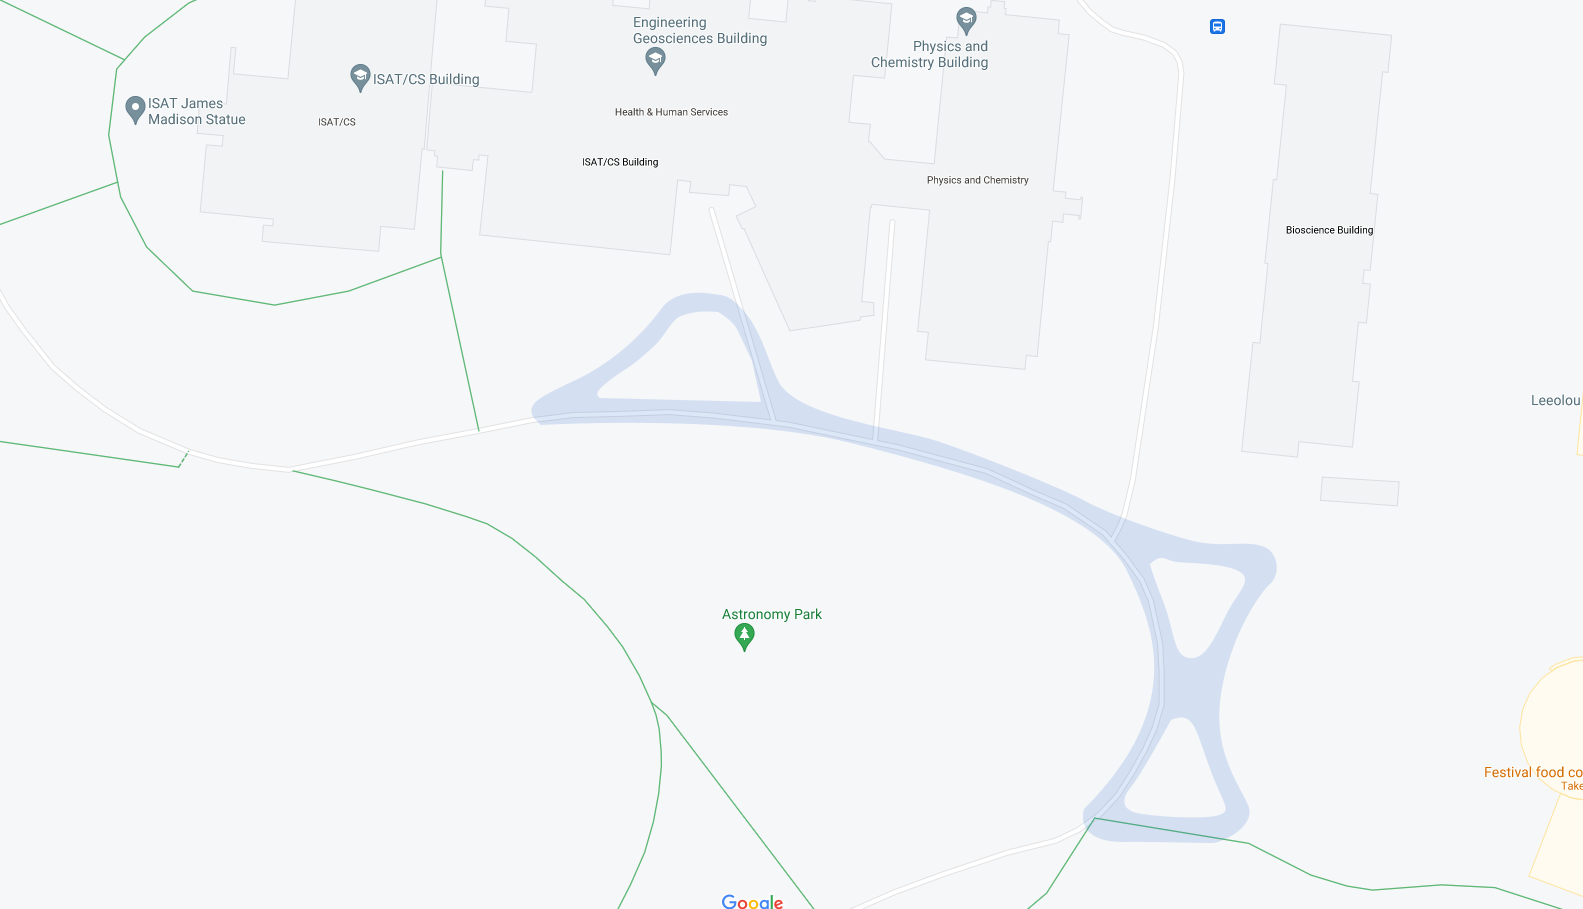
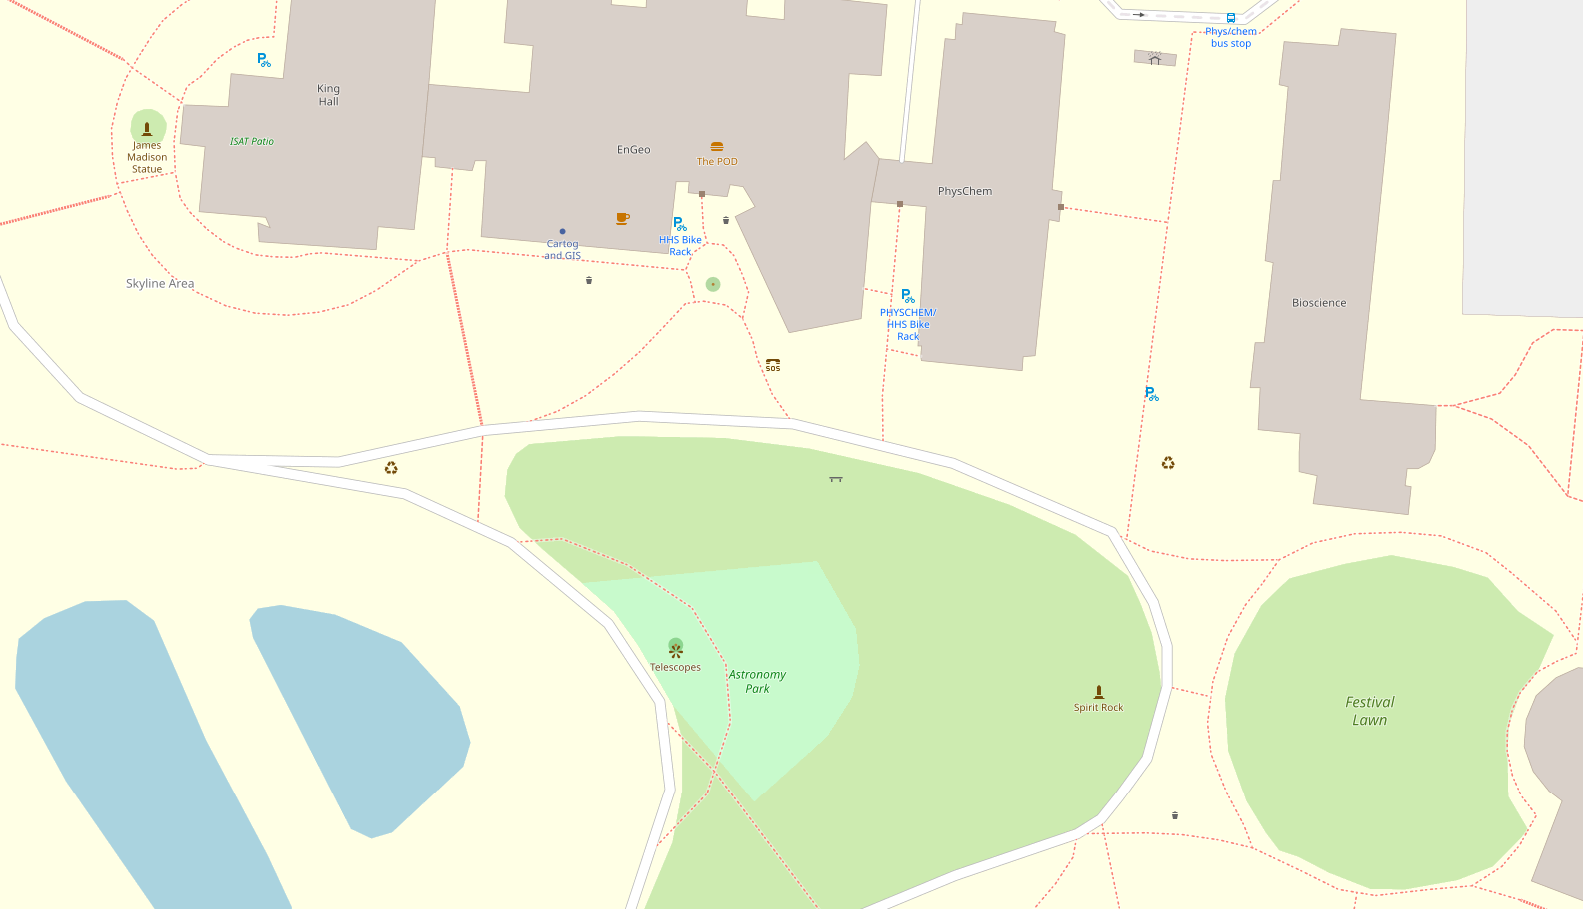
added osm map

diff --git a/src/App.jsx b/src/App.jsx
@@ -29,10 +29,10 @@ import React, { useEffect, useState, useRef } from 'react'
 import { RiFileInfoFill, RiTaxiFill } from 'react-icons/ri'
 import io from 'socket.io-client'
 import { convertGeoToPixel } from './GPSUtils'
-//import map from './images/map.png'
-import map from './images/newmap.jpg'
-//import sat from './images/sat.png'
-import sat from './images/newsat.jpg'
+import map from './images/map.png'
+// import map from './images/newmap.jpg'
+import sat from './images/sat.png'
+// import sat from './images/newsat.jpg'
 import { PathLine } from 'react-svg-pathline'
 import './App.css'
 
